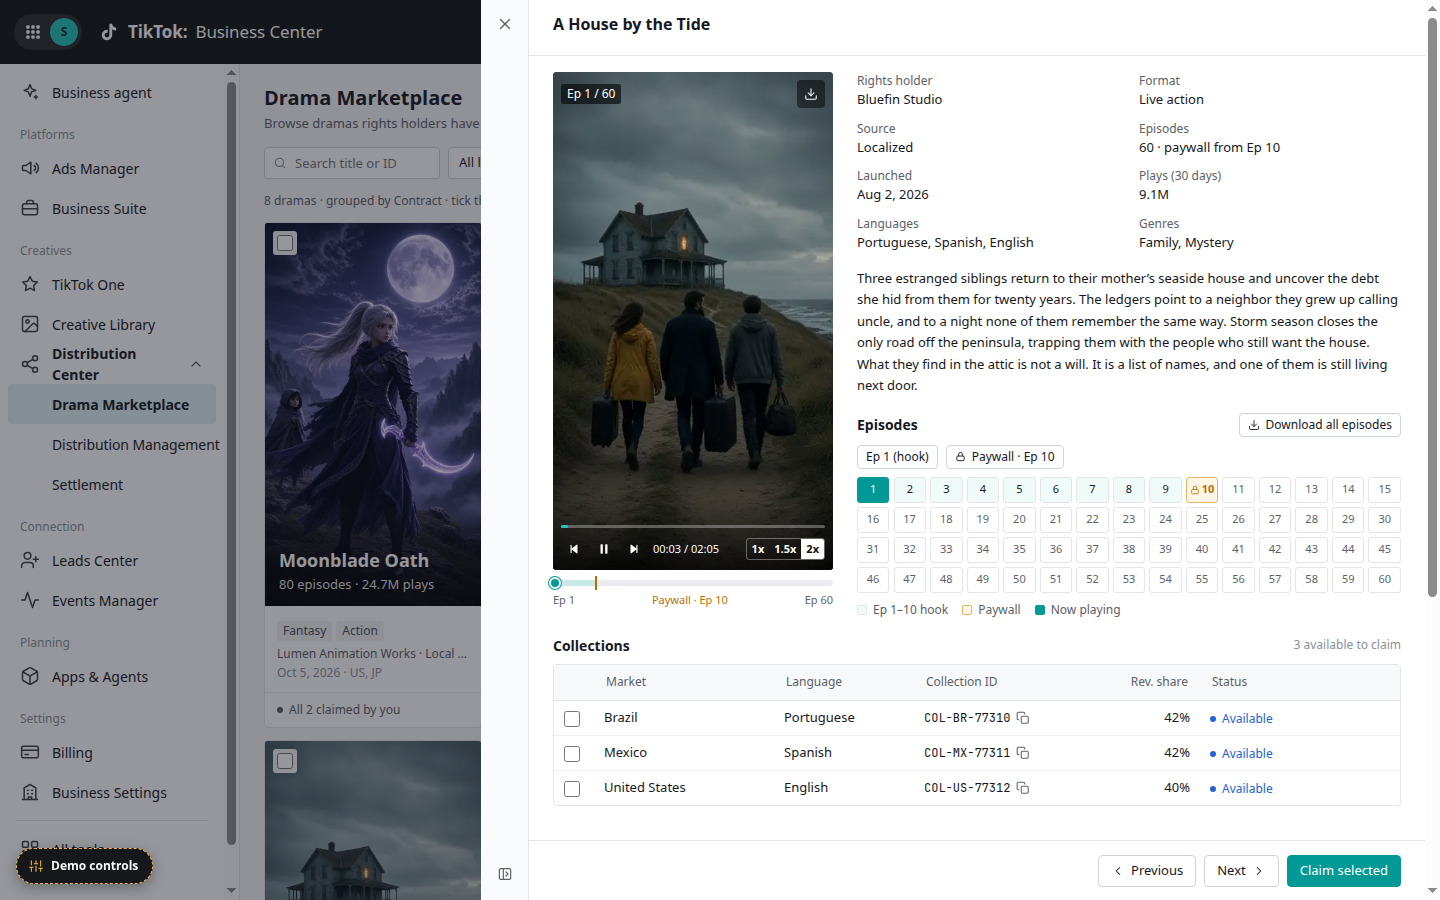
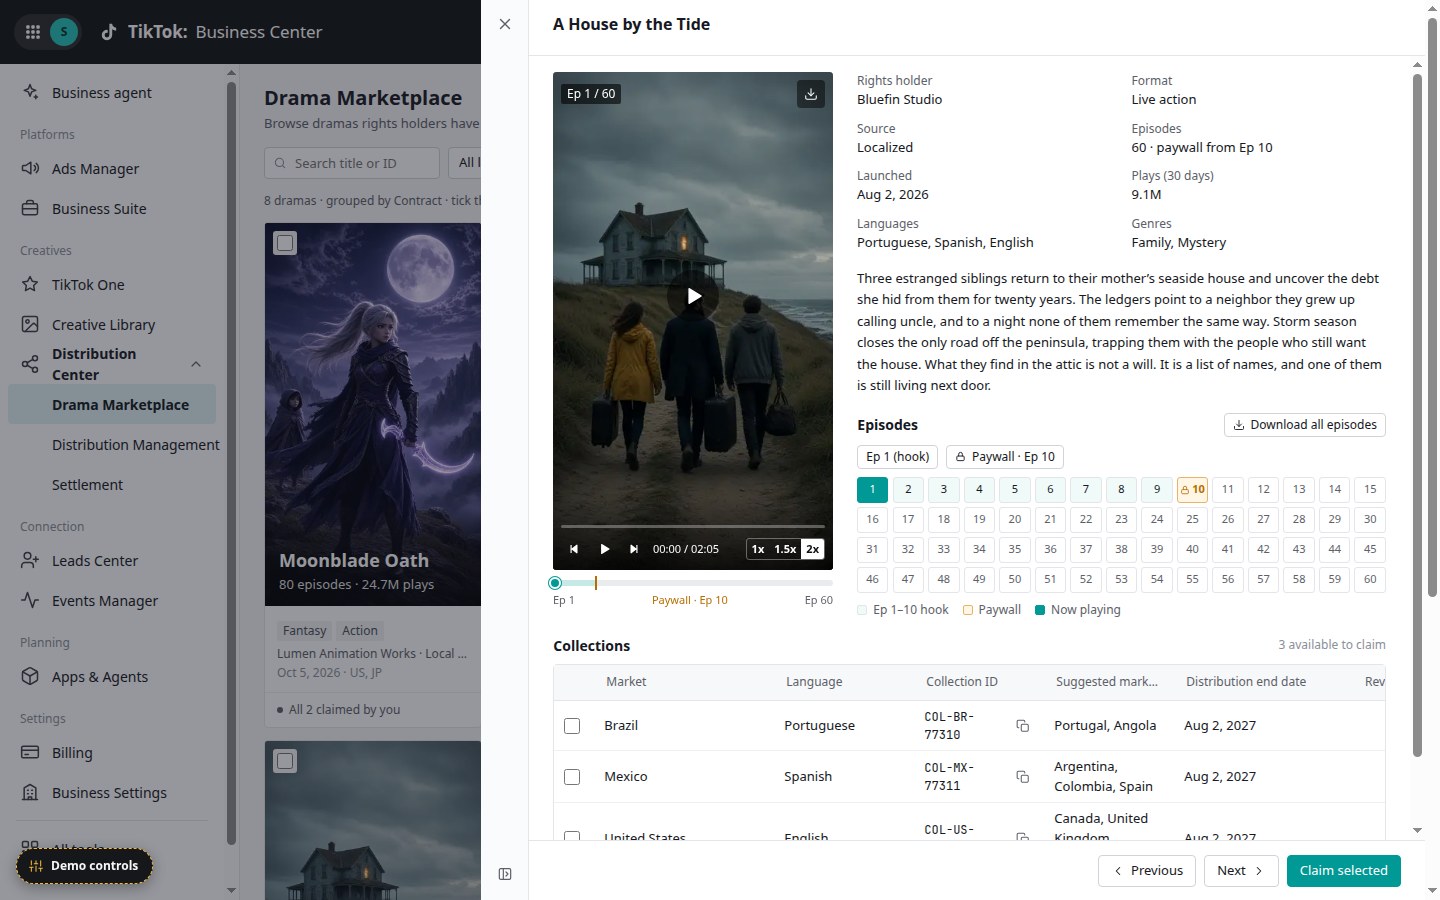
Sync prototype: bordered drama meta, 16:9 player, collection columns
Fullscreen keeps kv+synopsis between the info card and player with separate borders, a half-width 16:9 stage around 9:16 video, and Suggested markets plus Distribution end date on collections.

diff --git a/index.html b/index.html
@@ -365,15 +365,21 @@ button.kpi.on{box-shadow:inset 0 -2px 0 var(--primary)}
 .det-cols{grid-area:cols;min-width:0}
 .det-cols.sec{margin-top:0}
 .det-syn{margin:0;font-size:13px;line-height:1.65;color:var(--text)}
-.drawer.drama.fs .det{grid-template-columns:minmax(0,1.2fr) minmax(300px,.8fr);grid-template-areas:"info info" "player eps" "cols cols";gap:22px 32px}
-.drawer.drama.fs .det-info{display:flex;flex-direction:column;gap:16px}
-.drawer.drama.fs .det-info .kv{display:none}
-.drawer.drama.fs .det-syn{font-size:14px;line-height:1.7;max-width:80ch}
+.drawer.drama.fs .det{grid-template-columns:minmax(0,1fr) minmax(0,1fr);grid-template-areas:"info info" "player eps" "cols cols";gap:22px 32px}
+.drawer.drama.fs .det-info{display:grid;grid-template-columns:minmax(0,1fr) minmax(0,1.1fr);grid-template-areas:"hero hero" "facts syn";gap:16px;align-items:stretch}
+.drawer.drama.fs .det-hero{grid-area:hero}
+.det-facts{display:contents}
+.drawer.drama.fs .det-facts{display:block;grid-area:facts;border:1px solid var(--border);border-radius:4px;padding:14px 16px;background:#fff}
+.drawer.drama.fs .det-facts .kv{grid-template-columns:repeat(4,minmax(0,1fr));gap:12px 20px}
+.drawer.drama.fs .det-syn{grid-area:syn;font-size:14px;line-height:1.7;max-width:none;border:1px solid var(--border);border-radius:4px;padding:14px 16px;background:#fff}
 .drawer.drama.fs .det-l{position:static;width:auto}
 .player-stage{display:contents}
-.drawer.drama.fs .player-stage{display:flex;align-items:center;justify-content:center;width:100%;height:363px;background:#111417;border-radius:4px;overflow:hidden}
+.drawer.drama.fs .player-stage{display:flex;align-items:center;justify-content:center;width:100%;aspect-ratio:16/9;height:auto;background:#111417;border-radius:4px;overflow:hidden}
 .drawer.drama.fs .player{width:auto;height:100%;aspect-ratio:9/16;border-radius:0}
+.drawer.drama.fs .pl-time{font-size:10px}
+.drawer.drama.fs .pl-speed button{padding:0 3px}
 .drawer.drama.fs .series{margin-top:8px}
+.det-cols .tbl{min-width:1080px}
 .drawer.drama.fs .ep-grid{grid-template-columns:repeat(12,minmax(0,1fr));gap:6px}
 .drawer.drama.fs .ep{height:28px}
 .det-hero{display:none}
@@ -1306,6 +1312,14 @@ function distEndL(c){
   const months = ['Jan','Feb','Mar','Apr','May','Jun','Jul','Aug','Sep','Oct','Nov','Dec'];
   return months[d.getUTCMonth()] + ' ' + d.getUTCDate() + ', ' + d.getUTCFullYear();
 }
+const SUGGESTED = {
+  US:['Canada','United Kingdom','Australia'], GB:['Ireland','United States','Australia'], CA:['United States','United Kingdom'],
+  BR:['Portugal','Angola'], MX:['Argentina','Colombia','Spain'], JP:['Taiwan','South Korea'],
+  TH:['Vietnam','Malaysia'], ID:['Malaysia','Singapore'], PH:['Singapore','United States'], KR:['Japan','United States']
+};
+function suggestedMarkets(col){
+  return (SUGGESTED[col.code] || []).join(', ') || '—';
+}
 function dramaBody(ctrId){
   const c = ctrOf(ctrId); const cs = colsOf(ctrId);
   const primary = cs.find(x => x.code === 'US') || cs[0];
@@ -1320,6 +1334,8 @@ function dramaBody(ctrId){
     return `<tr class="${DS.sel.has(x.id) ? 'sel' : ''}"><td><input type="checkbox" class="cb" name="cl-${x.id}" data-chg="dr-sel" data-id="${x.id}" ${DS.sel.has(x.id) ? 'checked' : ''} ${can ? '' : 'disabled'} aria-label="Select ${esc(colLabel(x))}"></td>
       <td><div class="cell-title">${x.market}</div></td><td>${x.lang}</td>
       <td><span class="copyable"><span class="mono">${x.id}</span>${copyBtn(x.id, 'Collection ID copied')}</span></td>
+      <td class="col-extra">${esc(suggestedMarkets(x))}</td>
+      <td class="col-extra nowrap">${esc(distEndL(c))}</td>
       <td class="num">${x.share}%</td><td>${colStatus(x)}</td></tr>`;
   }).join('');
   const heroId = primary ? primary.id : c.id;
@@ -1344,6 +1360,7 @@ function dramaBody(ctrId){
         </div>
         <button type="button" class="btn btn-primary" data-act="drama-play">${ic('play', 14)}Play now</button>
       </div>
+      <div class="det-facts">
       <div class="kv">
         <div><div class="k">Rights holder</div><div class="v">${c.holder}</div></div>
         <div><div class="k">Format</div><div class="v">${c.format}</div></div>
@@ -1353,6 +1370,7 @@ function dramaBody(ctrId){
         <div><div class="k">Plays (30 days)</div><div class="v">${c.plays}</div></div>
         <div><div class="k">Languages</div><div class="v">${Array.from(new Set(cs.map(x => x.lang))).join(', ')}</div></div>
         <div><div class="k">Genres</div><div class="v">${c.genres.join(', ')}</div></div>
+      </div>
       </div>
       <p class="det-syn">${c.synopsis}</p>
     </div>
@@ -1385,7 +1403,7 @@ function dramaBody(ctrId){
       <div class="legend"><span><i style="background:#F0FAF9"></i>Ep 1–10 hook</span><span><i style="background:var(--warn-bg);border-color:#E7B567"></i>Paywall</span><span><i style="background:var(--primary);border-color:var(--primary)"></i>Now playing</span></div>
     </div>
     <div class="sec det-cols"><div class="sec-h"><h4>Collections</h4><span class="faint" style="font-size:12px">${availCount} available to claim</span></div>
-      <div class="panel"><div class="tbl-wrap"><table class="tbl"><thead><tr><th style="width:40px"></th><th style="width:180px">Market</th><th style="width:140px">Language</th><th>Collection ID</th><th style="width:110px" class="num">Rev. share</th><th style="width:200px">Status</th></tr></thead><tbody>${rows}</tbody></table></div></div>
+      <div class="panel"><div class="tbl-wrap"><table class="tbl"><thead><tr><th style="width:40px"></th><th style="width:180px">Market</th><th style="width:140px">Language</th><th>Collection ID</th><th class="col-extra">Suggested markets</th><th class="col-extra" style="width:150px">Distribution end date</th><th style="width:110px" class="num">Rev. share</th><th style="width:200px">Status</th></tr></thead><tbody>${rows}</tbody></table></div></div>
     </div>
   </div>`;
   return {body, availCount};
